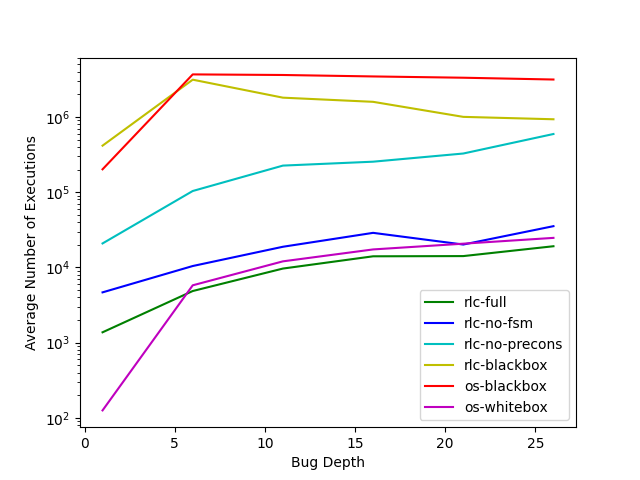
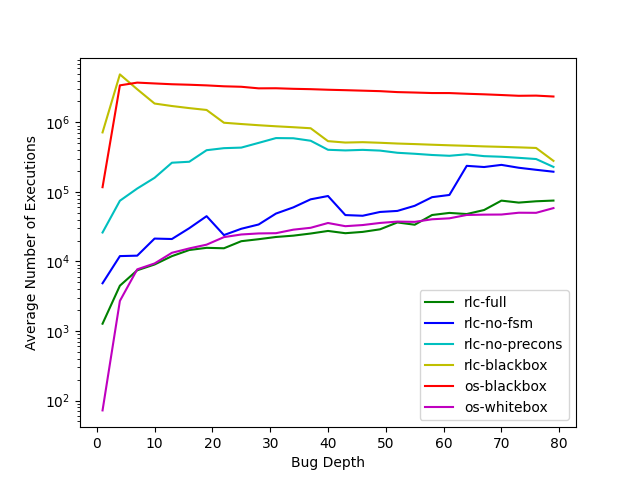
final setup and measurements.

diff --git a/tic_tac_toe/measure.py b/tic_tac_toe/measure.py
@@ -3,13 +3,12 @@ from statistics import mean
 import time
 import matplotlib.pyplot as plt
 
-REPEAT_COUNT = 6
+REPEAT_COUNT = 10
 fuzzers = ['rlc_tic_tac_toe', 'rlc_tic_tac_toe_no_fsm', 'rlc_tic_tac_toe_no_precons', 'rlc_tic_tac_toe_no_improvements', 'open_spiel_whitebox_tic_tac_toe', 'open_spiel_blackbox_tic_tac_toe']
-bug_depths = range(1, 100, 5)
+bug_depths = range(1, 51, 5)
 
 time_measurements = {fuzzer: {} for fuzzer in fuzzers}
 execution_count_measurements = {fuzzer: {} for fuzzer in fuzzers}
-went_over_time_cap = {fuzzer: False for fuzzer in fuzzers }
 
 
 j = 0
@@ -22,21 +21,12 @@ for bug_depth in bug_depths:
         execution_count_measurements[fuzzer][bug_depth] = []
         print(f"{bug_depth} - {fuzzer}")
         for i in range(REPEAT_COUNT):
-            if went_over_time_cap[fuzzer]:
-                time_measurements[fuzzer][bug_depth].append(150)
-                execution_count_measurements[fuzzer][bug_depth].append(
-                    # sshhhh
-                    execution_count_measurements[fuzzer][bug_depth][0]if i > 0 else execution_count_measurements[fuzzer][bug_depths[j - 2]][0]
-                    )
-            else: 
-                start = time.time()
-                sp = run([f'build/{fuzzer}', '-artifact_prefix=fuzzer_output/', '-max_total_time=150', '-print_final_stats=1'], capture_output=True)
-                end = time.time()
-                time_measurements[fuzzer][bug_depth].append(end - start)
-                if end - start > 150:
-                    went_over_time_cap[fuzzer] = True
-                execution_count = (int)(sp.stderr.decode().splitlines()[-5].split()[-1])
-                execution_count_measurements[fuzzer][bug_depth].append(execution_count)
+            start = time.time()
+            sp = run([f'build/{fuzzer}', '-artifact_prefix=fuzzer_output/', '-max_total_time=150', '-print_final_stats=1'], capture_output=True)
+            end = time.time()
+            time_measurements[fuzzer][bug_depth].append(end - start)
+            execution_count = (int)(sp.stderr.decode().splitlines()[-5].split()[-1])
+            execution_count_measurements[fuzzer][bug_depth].append(execution_count)
 
     processed_depths = bug_depths[:j]
     print(processed_depths)

diff --git a/crazy_eights/measure.py b/crazy_eights/measure.py
@@ -3,13 +3,12 @@ from statistics import mean
 import time
 import matplotlib.pyplot as plt
 
-REPEAT_COUNT = 2
+REPEAT_COUNT = 4
 fuzzers = ['open_spiel_whitebox_crazy_eights', 'open_spiel_blackbox_crazy_eights', 'rlc_crazy_eights', 'rlc_crazy_eights_no_fsm', 'rlc_crazy_eights_no_precons', 'rlc_crazy_eights_no_improvements']
-bug_depths = range(1, 20, 2)
+bug_depths = range(1, 30, 2)
 
 time_measurements = {fuzzer: {} for fuzzer in fuzzers}
 execution_count_measurements = {fuzzer: {} for fuzzer in fuzzers}
-
 
 j = 0
 for bug_depth in bug_depths:

diff --git a/blackjack/measure.py b/blackjack/measure.py
@@ -3,13 +3,12 @@ from statistics import mean
 import time
 import matplotlib.pyplot as plt
 
-REPEAT_COUNT = 2
+REPEAT_COUNT = 10
 fuzzers = ['rlc_blackjack', 'rlc_blackjack_no_fsm', 'rlc_blackjack_no_precons', 'rlc_blackjack_no_improvements', 'open_spiel_whitebox_blackjack', 'open_spiel_blackbox_blackjack']
-bug_depths = range(1, 30, 5)
+bug_depths = range(1, 80, 3)
 
 time_measurements = {fuzzer: {} for fuzzer in fuzzers}
 execution_count_measurements = {fuzzer: {} for fuzzer in fuzzers}
-
 
 j = 0
 for bug_depth in bug_depths:
